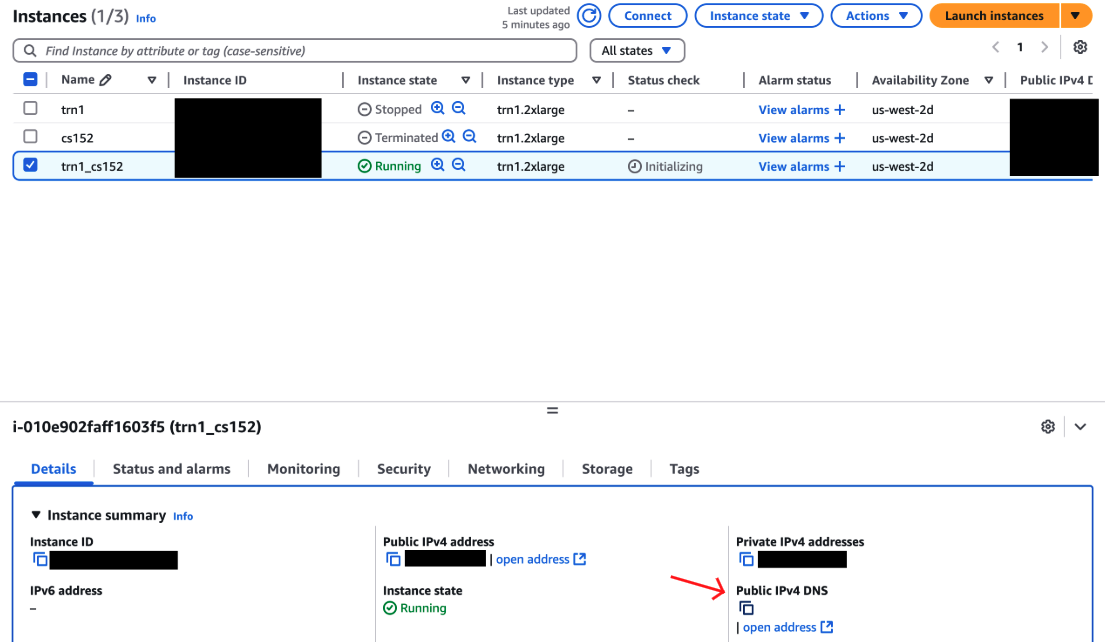
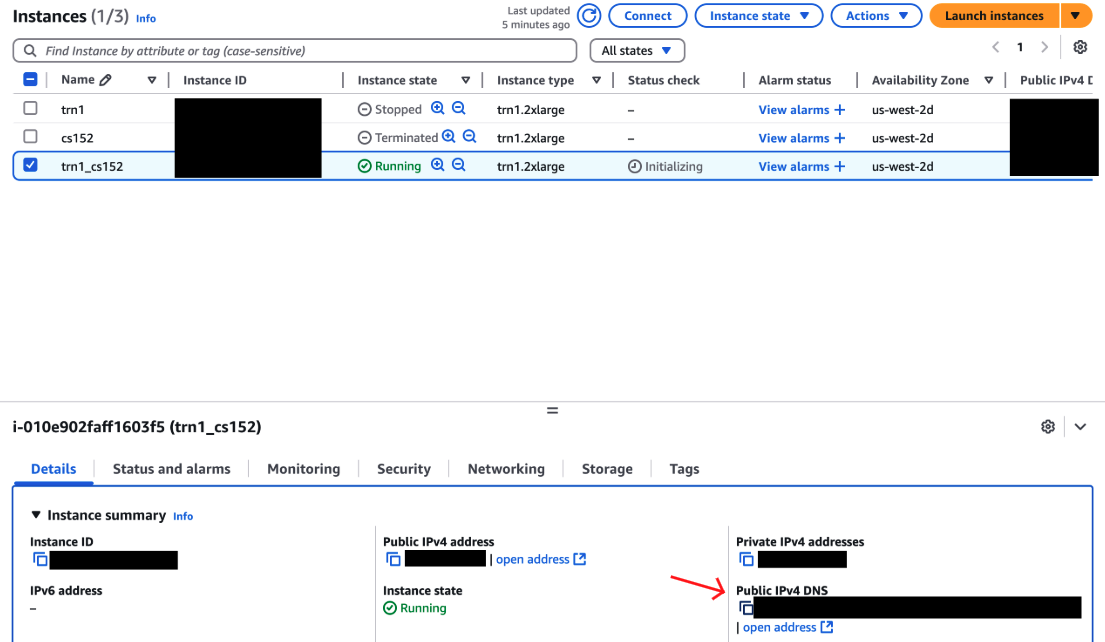
Increased image widths, fixed picture redactions

Changed region(s): [[0.6769, 0.9034, 0.9846, 0.9657]]

diff --git a/AWS_SETUP.md b/AWS_SETUP.md
@@ -12,7 +12,7 @@ The first step is to launch a Tranium EC2 instance.
     - AMI: Deep Learning AMI Neuron (Ubuntu 22.04)
     - Instance Type: trn1.2xlarge
 <p align="center">
-  <img width="40%" src="./img/aws_setup/1_instance_info.png">
+  <img width="50%" src="./img/aws_setup/1_instance_info.png">
 </p>
 
 4. Scroll down, and click create new key pair. Select the following for your key pair details:
@@ -20,7 +20,7 @@ The first step is to launch a Tranium EC2 instance.
     - Key pair type: ED25519
     - Private key file format: .pem
 <p align="center">
-  <img width="30%" src="./img/aws_setup/2_key_setup.png">
+  <img width="40%" src="./img/aws_setup/2_key_setup.png">
 </p>
 
 Click "Create key pair", and the `trn1_cs152.pem` file will be downloaded to your local computer. Once the key is downloaded, move it to your `~/.ssh` directory, and make sure to set the permissions to read-only for the owner (400 sets r-- --- --- permissions for the file). 
@@ -36,12 +36,12 @@ chmod 400 ~/.ssh/trn1_cs152.pem
     - Select "Anywhere 0.0.0.0/0"
 
 <p align="center">
-  <img width="40%" src="./img/aws_setup/3_key_security_group.png">
+  <img width="50%" src="./img/aws_setup/3_key_security_group.png">
 </p>
 
 6. Scroll down further to the "Configure storage" settings, and set it to 150 GiB or gp3 storage.
 <p align="center">
-  <img width="40%" src="./img/aws_setup/3_1_storage_settings.png">
+  <img width="50%" src="./img/aws_setup/3_1_storage_settings.png">
 </p>
 
 
@@ -49,7 +49,7 @@ chmod 400 ~/.ssh/trn1_cs152.pem
 confirm the information is correct, and launch your instance!
 
 <p align="center">
-  <img width="30%" src="./img/aws_setup/4_summary_launch.png">
+  <img width="40%" src="./img/aws_setup/4_summary_launch.png">
 </p>
 
 ### Potential Errors:
@@ -58,14 +58,14 @@ confirm the information is correct, and launch your instance!
 You may get an error saying your "Instance launch failed" due to request for accessing resources needing validation. This usually gets resolved within 5 minutes, and once you get the email saying that your request has been validated, click the orange button saying "Retry failed tasks."
 
 <p align="center">
-  <img width="80%" src="./img/aws_setup/4_1_launch_fail_validation.png">
+  <img width="90%" src="./img/aws_setup/4_1_launch_fail_validation.png">
 </p>
 
 #### vCPU Capacity Limit
 If you get an error saying your "Instance launch failed" due to requesting more vCPU capacity than your current vCPU limit of 0, make sure you fill out the [Google Form on Ed](https://edstem.org/us/courses/74390/discussion/6388697) to get permissions to launch Tranium instances. Email ronitnag04@berkeley.edu once you fill out the form, with the email subject "[CS152] SP25 Lab 6 AWS Google Form Submitted".
 
 <p align="center">
-  <img width="80%" src="./img/aws_setup/4_1_launch_fail_vcpu.png">
+  <img width="90%" src="./img/aws_setup/4_1_launch_fail_vcpu.png">
 </p>
 
 
@@ -76,14 +76,14 @@ This next step is to set up an Elastic IP for your instance. By default, the IPv
 3. Click the orange "Allocate" button. Now, you have an Elastic IP to use.
 4. Rename the Elastic IP to trn1_cs152
 <p align="center">
-  <img width="60%" src="./img/aws_setup/5_name_ip.png">
+  <img width="70%" src="./img/aws_setup/5_name_ip.png">
 </p>
 
 5. Make sure the trn1_cs152 Elastic IP is selected (blue checkbox on the left of the name), and click the "Actions" dropdown menu in the top right of the screen.
 
 6. Select "Associate Elastic IP address." Click on the "Instance" selection, and select the trn1_cs152 instance. Click the orange "Associate" button. 
 <p align="center">
-  <img width="60%" src="./img/aws_setup/6_select_instance_associate.png">
+  <img width="70%" src="./img/aws_setup/6_select_instance_associate.png">
 </p>
 
 ## Step 3: Setup SSH
@@ -93,7 +93,7 @@ This step is to ensure you have SSH access from your local computer to the Trn1 
 2. Click on the checkbox next to your trn1_cs152 instance. Scroll down to the "Details" section and copy the Public IPv4 DNS. It should look like this: `ec2-###-###-###-###.us-east-2.compute.amazonaws.com` (where the # symbols are numbers).
 
 <p align="center">
-  <img width="60%" src="./img/aws_setup/7_get_dns.png">
+  <img width="70%" src="./img/aws_setup/7_get_dns.png">
 </p>
 
 
@@ -125,7 +125,7 @@ ssh trn1_cs152
     - Period: 5 minutes
 
 <p align="center">
-  <img width="60%" src="./img/aws_setup/8_alarm_details.png">
+  <img width="70%" src="./img/aws_setup/8_alarm_details.png">
 </p>
 
 3. Search "Budgets" in the top search bar, and in the "Features" section, click on "Budgets". Click on the orange "Create a Budget" button. 
@@ -135,7 +135,7 @@ ssh trn1_cs152
     - Enter your email in the "Email recipients" box
 
 <p align="center">
-  <img width="60%" src="./img/aws_setup/9_budget_details.png">
+  <img width="70%" src="./img/aws_setup/9_budget_details.png">
 </p>
 
 5. Finally, click the orange "Create Budget" button.
